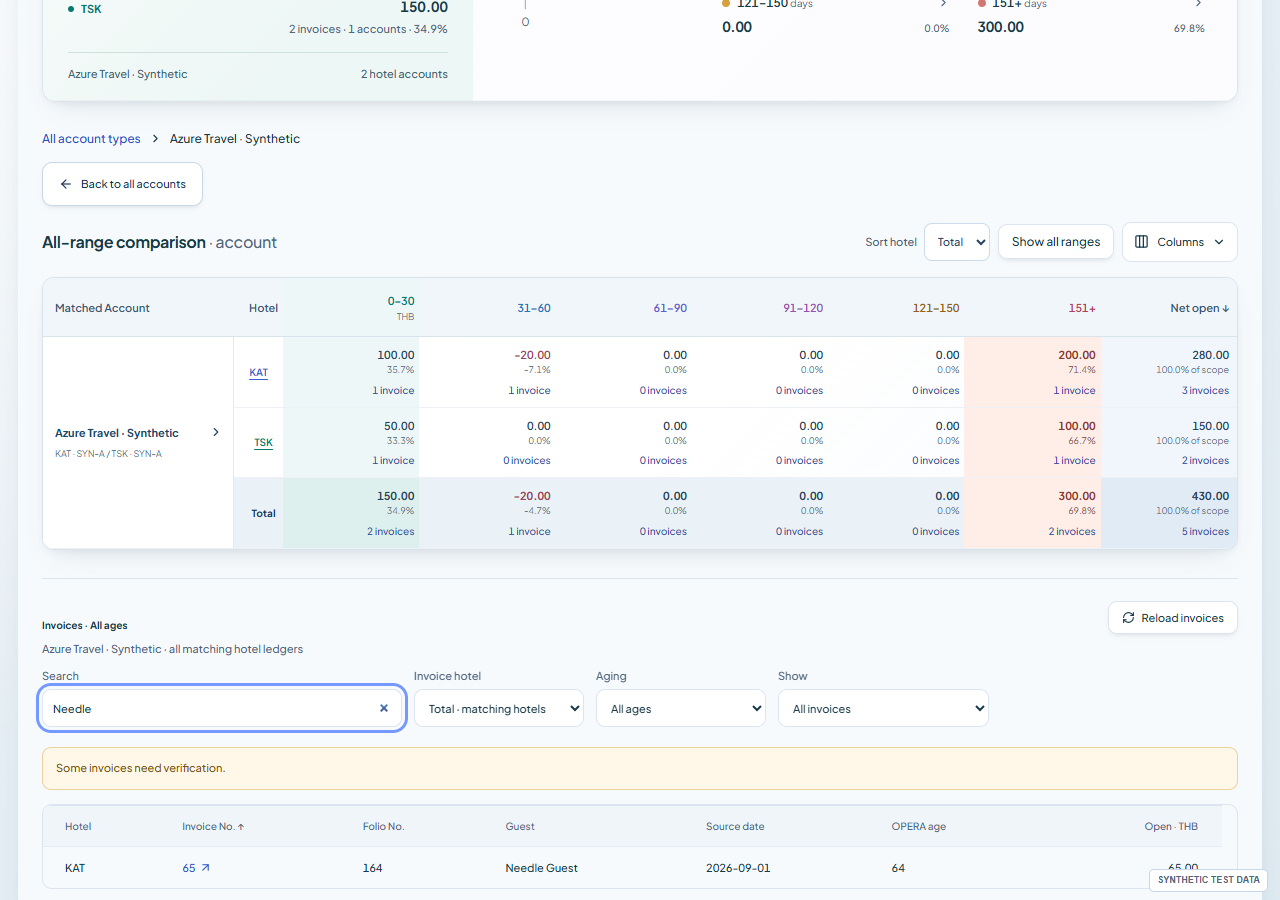
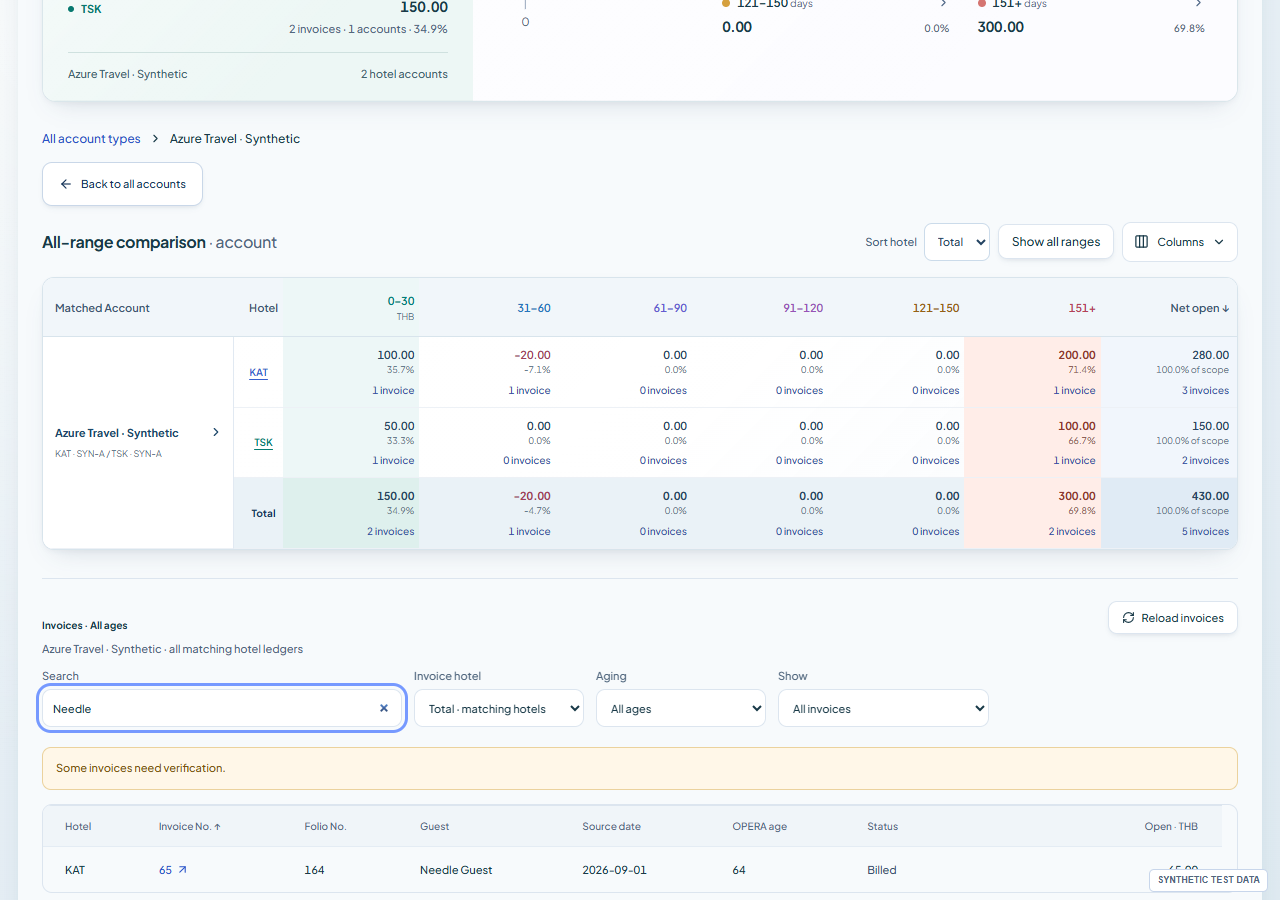
Show recorded billing and follow-up status in invoice lists

diff --git a/src/dashboard/CurrentAging.tsx b/src/dashboard/CurrentAging.tsx
@@ -1,3 +1,5 @@
+import {invoiceProgress} from './invoice-progress';
+import {useCollectionPolicy} from '../collection/PolicyContext';
 import {filterSortInvoices,invoiceColumns,type InvoiceSortKey} from './invoice-list';
 import {invoiceAgingAccounts} from './invoice-aging';
 import {thaiToday} from '../domain/collection';
@@ -124,6 +126,7 @@ function AgingWorkspace({region='phuket',revision=0,token,hotel,accounts:catalog
 function Pagination({page,pages,count,label,change}:{page:number;pages:number;count:number;label:string;change:(n:number)=>void}){return <div className="aging-pagination"><span>{count.toLocaleString()} {label} · page {page} of {pages}</span><button disabled={page===1} onClick={()=>change(page-1)}>Previous</button><button disabled={page>=pages} onClick={()=>change(page+1)}>Next</button></div>;}
 
 function InvoiceDrill({sortKey,setSortKey,search,setSearch,externalRevision,token,row,bucket,columns,hotel,setHotel,setBucket,refresh,onOpenInvoice,view,setView,page,setPage,descending,setDescending}:{sortKey:InvoiceSortKey;setSortKey:(v:InvoiceSortKey)=>void;search:string;setSearch:(v:string)=>void;externalRevision:number;token:string;row:AgingComparisonRow;bucket:AgingBucket;columns:AgingBucket[];hotel:AgingHotel;setHotel:(h:AgingHotel)=>void;setBucket:(key:string)=>void;refresh?:RefreshState|null;onOpenInvoice:Props['onOpenInvoice'];view:'all'|'bucket'|'unassigned';setView:(v:'all'|'bucket'|'unassigned')=>void;page:number;setPage:(page:number)=>void;descending:boolean;setDescending:(value:boolean)=>void}){
+ const {policy}=useCollectionPolicy();
  const [request,setRequest]=useState<{key:string;state:'loading'|'ready'|'error';rows:AgingInvoice[]}>({key:'',state:'loading',rows:[]}),[revision,setRevision]=useState(0);
  const members=row.members.filter(a=>hotel==='Total'||a.hotel===hotel),memberKey=JSON.stringify(members.map(a=>[a.hotel,a.id,a.verification_state,a.agingBuckets]));
  const publication=(refresh?.hotels??[]).map(h=>[h.hotel,h.last_success_at].join(':')).join('|'),requestKey=token+'|'+memberKey+'|'+publication+'|'+revision+'|'+externalRevision;
@@ -141,7 +144,7 @@ function InvoiceDrill({sortKey,setSortKey,search,setSearch,externalRevision,toke
   const verified=account.verification_state==='verified'||account.verification_state==='cleared'&&account.open===0;
   return {account,source:verified?source:undefined,...agingInvoiceEvidence(state==='ready'?request.rows.filter(i=>i.hotel===account.hotel&&i.accountId===account.id):[],source??bucket,schema,account.agingAccountCredits?.filter(c=>c.bucketKey===agingBucketKey(bucket)).reduce((n,c)=>n+c.amount,0)??0)};
  });
- const invoiceRows=filterSortInvoices((view==='all'?request.rows.filter(i=>i.verified&&i.open!==null&&i.open!==0&&['parent','standalone'].includes(i.role)&&!i.parentId):evidence.flatMap(e=>view==='unassigned'?e.unassigned:e.rows)),search,sortKey,descending);
+ const invoiceRows=filterSortInvoices((view==='all'?request.rows.filter(i=>i.verified&&i.open!==null&&i.open!==0&&['parent','standalone'].includes(i.role)&&!i.parentId):evidence.flatMap(e=>view==='unassigned'?e.unassigned:e.rows)).map(i=>({...i,status:invoiceProgress(i,thaiToday(),policy)})),search,sortKey,descending);
  const shown=invoiceRows;
  const reset=()=>setPage(1);
  const changeSort=(key:InvoiceSortKey)=>{setDescending(key===sortKey?!descending:key==='open');setSortKey(key);reset();};
@@ -149,10 +152,10 @@ function InvoiceDrill({sortKey,setSortKey,search,setSearch,externalRevision,toke
  const hotels=[...new Set(row.members.map(a=>a.hotel))];
  return <section className="aging-invoice-drill" aria-labelledby="aging-invoice-title">
   <header className="aging-heading"><div><h3 id="aging-invoice-title">Invoices · {view==='all'?'All ages':bucket.label+' days'}</h3><p>{row.name} · {hotel==='Total'?'all matching hotel ledgers':hotel}</p></div><button onClick={()=>setRevision(n=>n+1)}><RefreshCw size={13}/> Reload invoices</button></header>
-  <div className="aging-controls"><label className="aging-search">Search<input type="search" aria-label="Search account invoices" placeholder="Guest / Invoice / Folio" value={search} onChange={e=>{setSearch(e.target.value);reset();}}/></label><label>Invoice hotel<select aria-label="Invoice hotel" value={hotel} onChange={e=>{setHotel(e.target.value as AgingHotel);reset();}}><option value="Total">Total · matching hotels</option>{hotels.map(h=><option key={h}>{h}</option>)}</select></label><label>Aging<select aria-label="Invoice aging bucket" value={view==='all'?'all':agingBucketKey(bucket)} onChange={e=>{if(e.target.value==='all')setView('all');else{setBucket(e.target.value);setView('bucket');}reset();}}><option value="all">All ages</option>{columns.map(b=><option key={agingBucketKey(b)} value={agingBucketKey(b)}>{b.label}</option>)}</select></label><label>Show<select aria-label="Invoice evidence view" value={view} onChange={e=>{setView(e.target.value as 'all'|'bucket'|'unassigned');setPage(1);}}><option value="all">All invoices</option><option value="bucket">Selected age range</option><option value="unassigned">Unverified / unassigned invoices</option></select></label></div>
+  <div className="aging-controls"><label className="aging-search">Search<input type="search" aria-label="Search account invoices" placeholder="Guest / Invoice / Folio / Status" value={search} onChange={e=>{setSearch(e.target.value);reset();}}/></label><label>Invoice hotel<select aria-label="Invoice hotel" value={hotel} onChange={e=>{setHotel(e.target.value as AgingHotel);reset();}}><option value="Total">Total · matching hotels</option>{hotels.map(h=><option key={h}>{h}</option>)}</select></label><label>Aging<select aria-label="Invoice aging bucket" value={view==='all'?'all':agingBucketKey(bucket)} onChange={e=>{if(e.target.value==='all')setView('all');else{setBucket(e.target.value);setView('bucket');}reset();}}><option value="all">All ages</option>{columns.map(b=><option key={agingBucketKey(b)} value={agingBucketKey(b)}>{b.label}</option>)}</select></label><label>Show<select aria-label="Invoice evidence view" value={view} onChange={e=>{setView(e.target.value as 'all'|'bucket'|'unassigned');setPage(1);}}><option value="all">All invoices</option><option value="bucket">Selected age range</option><option value="unassigned">Unverified / unassigned invoices</option></select></label></div>
   {state==='loading'?<p className="aging-empty" role="status">Loading current invoice evidence…</p>:state==='error'?<p className="aging-notice" role="alert">Invoice data is unavailable. No balance has been treated as zero. <button onClick={()=>setRevision(n=>n+1)}>Retry invoice read</button></p>:<>
    {evidence.some(e=>!e.source||e.difference!==0||!e.complete)&&<p className="aging-notice" role="status">Some invoices need verification.</p>}
-   <div className="aging-table-scroll" tabIndex={0} role="region" aria-label="Current invoice evidence"><table className="aging-invoices" aria-label="Current aging invoices"><thead><tr>{invoiceColumns.map(([key,label])=><th key={key} scope="col" aria-sort={sortKey===key?(descending?'descending':'ascending'):'none'}><button aria-label={`Sort invoices by ${label}`} onClick={()=>changeSort(key)}>{label}{sortKey===key?(descending?' ↓':' ↑'):''}</button></th>)}</tr></thead><tbody>{shown.map(i=><tr key={JSON.stringify([i.hotel,i.accountId,i.id])}><td>{i.hotel}</td><td><button className="aging-invoice-link" aria-label={`Open invoice ${i.invoiceNo||i.id}`} onClick={()=>onOpenInvoice(i.hotel,i.accountId,i.id)}>{i.invoiceNo||'No invoice number'} <ArrowUpRight size={13}/></button></td><td>{i.folioNo||'—'}</td><td>{i.guest||'—'}</td><td>{i.date||'—'}</td><td>{i.age===null?'Unknown':i.age}</td><td>{amount(i.open)}</td></tr>)}</tbody>{credits.length>0&&<tfoot>{credits.map((c,index)=><tr key={c.hotel+c.bucketKey+index}><td>{c.hotel}</td><td colSpan={5}>Account credit</td><td>{amount(-c.amount)}</td></tr>)}</tfoot>}</table>{shown.length===0&&<p className="aging-empty">{search.trim()?'No invoices match your search.':view==='unassigned'?'No unassigned invoices in this account scope.':'No invoices in this selection.'}</p>}</div>
+   <div className="aging-table-scroll" tabIndex={0} role="region" aria-label="Current invoice evidence"><table className="aging-invoices" aria-label="Current aging invoices"><thead><tr>{invoiceColumns.map(([key,label])=><th key={key} scope="col" aria-sort={sortKey===key?(descending?'descending':'ascending'):'none'}><button aria-label={`Sort invoices by ${label}`} onClick={()=>changeSort(key)}>{label}{sortKey===key?(descending?' ↓':' ↑'):''}</button></th>)}</tr></thead><tbody>{shown.map(i=><tr key={JSON.stringify([i.hotel,i.accountId,i.id])}><td>{i.hotel}</td><td><button className="aging-invoice-link" aria-label={`Open invoice ${i.invoiceNo||i.id}`} onClick={()=>onOpenInvoice(i.hotel,i.accountId,i.id)}>{i.invoiceNo||'No invoice number'} <ArrowUpRight size={13}/></button></td><td>{i.folioNo||'—'}</td><td>{i.guest||'—'}</td><td>{i.date||'—'}</td><td>{i.age===null?'Unknown':i.age}</td><td className="aging-invoice-status" data-attention={i.status?.includes('Past due')||i.status?.includes('Urgent')||undefined}>{i.status}</td><td>{amount(i.open)}</td></tr>)}</tbody>{credits.length>0&&<tfoot>{credits.map((c,index)=><tr key={c.hotel+c.bucketKey+index}><td>{c.hotel}</td><td colSpan={6}>Account credit</td><td>{amount(-c.amount)}</td></tr>)}</tfoot>}</table>{shown.length===0&&<p className="aging-empty">{search.trim()?'No invoices match your search.':view==='unassigned'?'No unassigned invoices in this account scope.':'No invoices in this selection.'}</p>}</div>
    <div className="aging-invoice-count">{invoiceRows.length.toLocaleString()} invoices</div>
   </>}
  </section>;

diff --git a/src/dashboard/aging-model.ts b/src/dashboard/aging-model.ts
@@ -1,5 +1,5 @@
 import {HOTEL_IDS,hotelRegion,isHotelId,regionHotels,type HotelId,type RegionId} from '../domain/hotels';
-import {aggregateAccounts,sourceAging,validSourceBucket,type Account,type AgingBucket} from '../domain/portfolio';
+import {aggregateAccounts,sourceAging,validSourceBucket,type Account,type InvoiceWorkflow,type AgingBucket} from '../domain/portfolio';
 
 export type AgingHotel=HotelId|'Total';
 export const agingRegion=(members:Account[]):RegionId=>{const h=members.find(a=>isHotelId(a.hotel));return h&&isHotelId(h.hotel)?hotelRegion(h.hotel):'phuket';};
@@ -7,7 +7,7 @@ export const comparisonHotels=(members:Account[],region:RegionId=agingRegion(mem
 export const agingHotels:AgingHotel[]=['KAT','TSK','Total'];
 export interface AgingCell {state:'verified'|'absent'|'outside'|'unavailable';amount:number|null;debit:number|null;credit:number|null}
 export interface AgingComparisonRow {key:string;name:string;members:Account[];cells:Record<AgingHotel,AgingCell>[];net:Record<AgingHotel,AgingCell>}
-export interface AgingInvoice {id:string;hotel:string;accountId:string;invoiceNo:string;folioNo:string;guest:string;date:string;open:number|null;age:number|null;role:string;verified:boolean;parentId:string|null}
+export interface AgingInvoice {workflow?:InvoiceWorkflow|null;statusAvailable?:boolean;exceptionsAvailable?:boolean;held?:boolean;needsReview?:boolean;status?:string;id:string;hotel:string;accountId:string;invoiceNo:string;folioNo:string;guest:string;date:string;open:number|null;age:number|null;role:string;verified:boolean;parentId:string|null}
 const unavailable=(state:AgingCell['state']='unavailable'):AgingCell=>({state,amount:null,debit:null,credit:null});
 const cents=(n:number)=>Math.round(n*100);
 const sum=(values:number[])=>{const total=values.reduce((s,n)=>s+cents(n),0);return Number.isSafeInteger(total)?total/100:null;};
@@ -71,6 +71,7 @@ const decimal=(value:unknown):number|null=>{
 /** The protected account endpoint returns every nonzero row. Reject malformed/foreign/duplicate identities as a whole. */
 export function parseAgingInvoices(value:unknown,account:Account):AgingInvoice[]{
  if(!value||typeof value!=='object'||!Array.isArray((value as {invoices?:unknown}).invoices))throw Error('Invoice response is unavailable');
+ const workflowAvailable=(value as {workflow_status?:unknown}).workflow_status!=='unavailable';
  const seen=new Set<string>();
  return (value as {invoices:unknown[]}).invoices.map(value=>{
   if(!value||typeof value!=='object')throw Error('Invoice response is unavailable');
@@ -78,7 +79,9 @@ export function parseAgingInvoices(value:unknown,account:Account):AgingInvoice[]
   if(typeof row.id!=='string'||!row.id||row.hotel!==account.hotel||row.account_id!==account.id||seen.has(row.id))throw Error('Invoice membership could not be verified');
   seen.add(row.id);
   const text=(key:string)=>typeof row[key]==='string'?row[key] as string:'';
-  return {id:row.id,hotel:account.hotel,accountId:account.id,invoiceNo:text('invoice_no'),folioNo:text('folio_no'),guest:text('guest'),date:text('transaction_date'),open:decimal(row.open),age:typeof row.age==='number'&&Number.isSafeInteger(row.age)&&row.age>=0?row.age:null,role:text('collection_role'),verified:row.verification_state==='verified'||row.verification_state==='cleared'&&decimal(row.open)===0,parentId:typeof row.parent_invoice_id==='string'?row.parent_invoice_id:null};
+  const w=row.workflow&&typeof row.workflow==='object'&&!Array.isArray(row.workflow)?row.workflow as InvoiceWorkflow:null;
+  const exceptions=row.exceptions&&typeof row.exceptions==='object'?row.exceptions as {held?:boolean;needsReview?:boolean}:undefined;
+  return {workflow:w,statusAvailable:workflowAvailable&&Object.hasOwn(row,'workflow'),exceptionsAvailable:row.exception_status!=='unavailable',held:exceptions?.held===true,needsReview:exceptions?.needsReview===true,id:row.id,hotel:account.hotel,accountId:account.id,invoiceNo:text('invoice_no'),folioNo:text('folio_no'),guest:text('guest'),date:text('transaction_date'),open:decimal(row.open),age:typeof row.age==='number'&&Number.isSafeInteger(row.age)&&row.age>=0?row.age:null,role:text('collection_role'),verified:row.verification_state==='verified'||row.verification_state==='cleared'&&decimal(row.open)===0,parentId:typeof row.parent_invoice_id==='string'?row.parent_invoice_id:null};
  });
 }
 export function agingInvoiceEvidence(invoices:AgingInvoice[],bucket:AgingBucket,sourceBuckets?:AgingBucket[],accountCredit=0){

diff --git a/tests/browser/aging-invoice-search.spec.ts b/tests/browser/aging-invoice-search.spec.ts
@@ -2,7 +2,7 @@ import {test,expect} from '@playwright/test';
 import {setupDashboard} from './fixtures/dashboard-period';
 for(const width of [1280,390])test(`account invoice list searches and sorts every column without pagination ${width}`,async({page})=>{
  await setupDashboard(page);await page.setViewportSize({width,height:900});
- const rows=Array.from({length:65},(_,n)=>({hotel:'KAT',account_id:'kat-azure',id:String(n+1),invoice_no:String(n+1),folio_no:String(100+n),guest:n===64?'Needle Guest':`Guest ${n+1}`,transaction_date:'2026-09-01',open:n+1,original:n+1,age:n,collection_role:'standalone',verification_state:'verified'}));
+ const rows=Array.from({length:65},(_,n)=>({hotel:'KAT',account_id:'kat-azure',id:String(n+1),invoice_no:String(n+1),folio_no:String(100+n),guest:n===64?'Needle Guest':`Guest ${n+1}`,transaction_date:'2026-09-01',open:n+1,original:n+1,age:n,collection_role:'standalone',verification_state:'verified',workflow:{revision:1,billing_required:true,credit_term:30,first_billing_date:n===0?null:'2026-09-01',last_reminder_stage:n===3?'Follow 1':null,last_reminder_date:n===3?'2026-09-11':null,due_date:n===3?'2026-09-10':'2026-10-01'},exception_status:'available',exceptions:{held:n===4,needsReview:false}}));
  await page.route('**/api/accounts/KAT/kat-azure',r=>r.fulfill({json:{invoices:rows}}));
  await page.route('**/api/accounts/TSK/tsk-azure',r=>r.fulfill({json:{invoices:[]}}));
  await page.goto('/?dashboard=1&dashboardView=aging');
@@ -10,8 +10,10 @@ for(const width of [1280,390])test(`account invoice list searches and sorts ever
  await page.getByRole('button',{name:'Open invoices for Azure Travel · Synthetic',exact:true}).click();
  const section=page.locator('.aging-invoice-drill'),table=section.getByRole('table',{name:'Current aging invoices'});
  await expect(table.locator('tbody tr')).toHaveCount(65);
+ await expect(table).toContainText('Not billed');await expect(table).toContainText('Billed');await expect(table).toContainText('Follow-up 1 · Past due');await expect(table).toContainText('On hold');
+ const statusSearch=section.getByRole('searchbox',{name:'Search account invoices',exact:true});await statusSearch.fill('follow-up');await expect(table.locator('tbody tr')).toHaveCount(1);await statusSearch.fill('');
  await expect(section.getByRole('button',{name:'Next',exact:true})).toHaveCount(0);
- for(const [index,label] of ['Hotel','Invoice No.','Folio No.','Guest','Source date','OPERA age','Open · THB'].entries()){
+ for(const [index,label] of ['Hotel','Invoice No.','Folio No.','Guest','Source date','OPERA age','Status','Open · THB'].entries()){
   const button=table.getByRole('button',{name:'Sort invoices by '+label,exact:true});await button.click();
   const header=table.getByRole('columnheader').nth(index);const first=await header.getAttribute('aria-sort');await button.click();expect(await header.getAttribute('aria-sort')).not.toBe(first);
  }

diff --git a/src/dashboard/invoice-progress.ts b/src/dashboard/invoice-progress.ts
@@ -1,0 +1,33 @@
+import type {AgingInvoice} from './aging-model';
+import {legacyStageSnapshot,parseStageSnapshot,policyStageLabel,type CollectionPolicy} from '../domain/collection-policy';
+const validDate=(value:string|null|undefined):value is string=>!!value&&/^\d{4}-\d{2}-\d{2}$/.test(value)&&Number.isFinite(Date.parse(value))&&new Date(value+'T00:00:00Z').toISOString().slice(0,10)===value;
+/** Recorded activity only: a planned round or saved draft never advances this status. */
+export function invoiceProgress(invoice:AgingInvoice,today:string,policy?:CollectionPolicy|null):string{
+ if(invoice.open!==null&&invoice.open<0)return 'Credit';
+ if(!invoice.verified||invoice.open===null||invoice.needsReview||invoice.exceptionsAvailable===false)return 'Needs review';
+ if(invoice.open===0)return 'Cleared';
+ if(invoice.held)return 'On hold';
+ if(invoice.statusAvailable===false)return 'Status unavailable';
+ const w=invoice.workflow;if(!w)return 'Setup needed';
+ if(!validDate(today))return 'Status unavailable';
+ if(w.first_billing_date&&(!validDate(w.first_billing_date)||w.first_billing_date>today))return 'Needs review';
+ let label:string;
+ if(w.last_reminder_stage){
+  if(!validDate(w.last_reminder_date)||w.last_reminder_date>today)return 'Needs review';
+  try{
+   const captured=w.last_reminder_stage_snapshot?parseStageSnapshot(w.last_reminder_stage_snapshot):legacyStageSnapshot(w.last_reminder_stage);
+   if(captured&&captured.key!==w.last_reminder_stage)return 'Needs review';
+   if(!captured&&!policy?.rounds.some(r=>r.key===w.last_reminder_stage))return 'Status unavailable';
+   label=policyStageLabel(w.last_reminder_stage,policy,captured);
+   if(captured?.terminal)return label+' · Urgent';
+  }catch{return 'Needs review';}
+ }else if(w.billing_required===true&&!w.first_billing_date)return 'Not billed';
+ else if(w.first_billing_date)label='Billed';
+ else if(w.billing_required===false)label='No follow-up sent';
+ else return 'Setup needed';
+ if(validDate(w.due_date)){
+  if(w.due_date<today)return w.last_reminder_stage?label+' · Past due':'Past due · No follow-up sent';
+  if(w.due_date===today)return label+' · Due today';
+ }
+ return label;
+}

diff --git a/tests/invoice-progress.test.ts b/tests/invoice-progress.test.ts
@@ -1,0 +1,24 @@
+import {it,expect} from 'vitest';
+import {invoiceProgress} from '../src/dashboard/invoice-progress';
+import type {AgingInvoice} from '../src/dashboard/aging-model';
+import type {InvoiceWorkflow} from '../src/domain/portfolio';
+const workflow:InvoiceWorkflow={revision:1,billing_required:true,credit_term:30,first_billing_date:null,last_reminder_stage:null,last_reminder_date:null,due_date:null};
+const row:AgingInvoice={hotel:'KAT',accountId:'A',id:'I',invoiceNo:'I',folioNo:'F',guest:'Guest',date:'2026-09-01',open:100,age:22,role:'standalone',verified:true,parentId:null,workflow,statusAvailable:true};
+const status=(w:Partial<InvoiceWorkflow>,extra:Partial<AgingInvoice>={})=>invoiceProgress({...row,...extra,workflow:{...workflow,...w}},'2026-09-23');
+it('distinguishes billing, no-follow-up and actual reminder states',()=>{
+ expect(status({})).toBe('Not billed');
+ expect(status({first_billing_date:'2026-09-01',due_date:'2026-10-01'})).toBe('Billed');
+ expect(status({billing_required:false,due_date:'2026-10-01'})).toBe('No follow-up sent');
+ expect(status({first_billing_date:'2026-09-01',due_date:'2026-09-10'})).toBe('Past due · No follow-up sent');
+ expect(status({last_reminder_stage:'Follow 1',last_reminder_date:'2026-09-20',due_date:'2026-09-10'})).toBe('Follow-up 1 · Past due');
+ expect(status({last_reminder_stage:'Final',last_reminder_date:'2026-09-20'})).toContain('Urgent');
+});
+it('does not advance from missing/future reminder evidence or unavailable workflow reads',()=>{
+ expect(status({last_reminder_stage:'Follow 1'})).toBe('Needs review');
+ expect(status({last_reminder_stage:'Follow 1',last_reminder_date:'2026-09-24'})).toBe('Needs review');
+ expect(status({},{statusAvailable:false})).toBe('Status unavailable');
+ expect(status({billing_required:null})).toBe('Setup needed');
+ expect(status({},{held:true})).toBe('On hold');
+ expect(status({},{needsReview:true})).toBe('Needs review');
+ expect(status({},{open:-100})).toBe('Credit');
+});

diff --git a/src/dashboard/invoice-list.ts b/src/dashboard/invoice-list.ts
@@ -1,11 +1,11 @@
 import type {AgingInvoice} from './aging-model';
-export type InvoiceSortKey='hotel'|'invoiceNo'|'folioNo'|'guest'|'date'|'age'|'open';
-export const invoiceColumns:readonly [InvoiceSortKey,string][]=[['hotel','Hotel'],['invoiceNo','Invoice No.'],['folioNo','Folio No.'],['guest','Guest'],['date','Source date'],['age','OPERA age'],['open','Open · THB']];
+export type InvoiceSortKey='hotel'|'invoiceNo'|'folioNo'|'guest'|'date'|'age'|'open'|'status';
+export const invoiceColumns:readonly [InvoiceSortKey,string][]=[['hotel','Hotel'],['invoiceNo','Invoice No.'],['folioNo','Folio No.'],['guest','Guest'],['date','Source date'],['age','OPERA age'],['status','Status'],['open','Open · THB']];
 const text=(v:string)=>v.normalize('NFKC').toLocaleLowerCase().trim();
 export function filterSortInvoices(rows:AgingInvoice[],search:string,key:InvoiceSortKey,descending:boolean){
  const query=text(search);
- return rows.filter(row=>!query||[row.hotel,row.invoiceNo,row.folioNo,row.guest].some(value=>text(value).includes(query))).sort((a,b)=>{
-  const x=a[key],y=b[key],empty=(v:string|number|null)=>v===null||v==='';
+ return rows.filter(row=>!query||[row.hotel,row.invoiceNo,row.folioNo,row.guest,row.status??''].some(value=>text(value).includes(query))).sort((a,b)=>{
+  const x=a[key],y=b[key],empty=(v:string|number|null|undefined)=>v==null||v==='';
   if(empty(x)!==empty(y))return empty(x)?1:-1;
   const compared=empty(x)?0:typeof x==='number'&&typeof y==='number'?x-y:String(x).localeCompare(String(y),'en',{numeric:true,sensitivity:'base'});
   return compared*(descending?-1:1)||a.hotel.localeCompare(b.hotel)||a.accountId.localeCompare(b.accountId)||a.id.localeCompare(b.id,'en',{numeric:true});

diff --git a/tests/invoice-list.test.ts b/tests/invoice-list.test.ts
@@ -1,8 +1,8 @@
 import {it,expect} from 'vitest';
 import {filterSortInvoices,invoiceColumns,type InvoiceSortKey} from '../src/dashboard/invoice-list';
 import type {AgingInvoice} from '../src/dashboard/aging-model';
-const base:AgingInvoice={id:'a',hotel:'KAT',accountId:'A',invoiceNo:'10',folioNo:'100',guest:'Zulu',date:'2026-09-02',age:null,open:100,role:'standalone',verified:true,parentId:null};
-const rows=[base,{...base,id:'b',hotel:'TSK',invoiceNo:'2',folioNo:'20',guest:'Anna',date:'2026-09-01',age:3,open:-20}];
+const base:AgingInvoice={status:'Not billed',id:'a',hotel:'KAT',accountId:'A',invoiceNo:'10',folioNo:'100',guest:'Zulu',date:'2026-09-02',age:null,open:100,role:'standalone',verified:true,parentId:null};
+const rows=[base,{...base,status:'Billed',id:'b',hotel:'TSK',invoiceNo:'2',folioNo:'20',guest:'Anna',date:'2026-09-01',age:3,open:-20}];
 it.each(invoiceColumns)('sorts %s both directions with missing values last',(key:InvoiceSortKey)=>{
  const asc=filterSortInvoices(rows,'',key,false),desc=filterSortInvoices(rows,'',key,true);
  if(key==='age'){expect(asc.map(r=>r.id)).toEqual(['b','a']);expect(desc.map(r=>r.id)).toEqual(['b','a']);}

diff --git a/src/dashboard/aging.css b/src/dashboard/aging.css
@@ -18,3 +18,7 @@
 .aging-inline-back{position:static;display:inline-flex;align-items:center;gap:8px;min-height:44px;padding:10px 16px;border:1px solid #c9d7e8;border-radius:10px;background:#fff;color:#17365a}.aging-return-footer{display:flex;margin-top:20px;padding-bottom:8px}
 
 .aging-invoice-count{padding:14px 0;color:var(--aging-muted);font-size:12px}.aging-invoice-drill .aging-invoices th button{display:inline-flex;align-items:center;gap:4px;white-space:nowrap}
+
+.aging-invoice-status{min-width:145px;max-width:220px;line-height:1.55;color:#38506f}
+
+.aging-invoice-status[data-attention=true]{color:#b42e4f;font-weight:600}

diff --git a/docs/PROJECT_STATUS.md b/docs/PROJECT_STATUS.md
@@ -2,9 +2,10 @@
 
 ## 23 September 2026 — Searchable continuous account invoice list
 
-- Account Aging invoice tables now search guest/invoice/folio/hotel and sort all seven columns in both directions. Identifier sorts are numeric-aware; absent values stay last with deterministic identity ties. Search and sort survive opening an Invoice and returning. New account selection clears the prior invoice query.
+- Account Aging invoice tables now search guest/invoice/folio/hotel and sort all eight columns, including Status in both directions. Identifier sorts are numeric-aware; absent values stay last with deterministic identity ties. Search and sort survive opening an Invoice and returning. New account selection clears the prior invoice query.
 - Removed invoice-list pagination; all matching rows render in the existing vertical table scroll area. Outer matched-account pagination is unchanged. Filters and sorting apply before display to the entire loaded account inventory. Source reads, child exclusion, account credits and monetary values are unchanged.
-- Eight sorting/search unit cases and four desktop/mobile browser cases passed. Browser fixtures exercise 65 rows, every sort header, a final-row search, return context, no Next control and original account-list return behavior. Typecheck/build/assets/dry run passed. Synthetic screenshots aging-invoice-search-1280.png/390.png inspected; old evidence preserved. Deployment verification follows.
+- Status uses recorded billing/reminder dates and captured/current policy labels, with Past due/Due today, holds, review, credits and unavailable reads represented distinctly. Planned rounds or drafts do not advance it. Status is searchable and sortable; workflow/exception data is read from the existing account endpoint.
+- 1,421 unit cases and four desktop/mobile browser cases passed. Browser fixtures exercise 65 rows, every sort header, a final-row search, return context, no Next control and original account-list return behavior. Typecheck/build/assets/dry run passed. Synthetic screenshots aging-invoice-search-1280.png/390.png inspected; old evidence preserved. Deployment verification follows.
 
 ## 23 September 2026 — Remove Invoice type from Aging details
 
